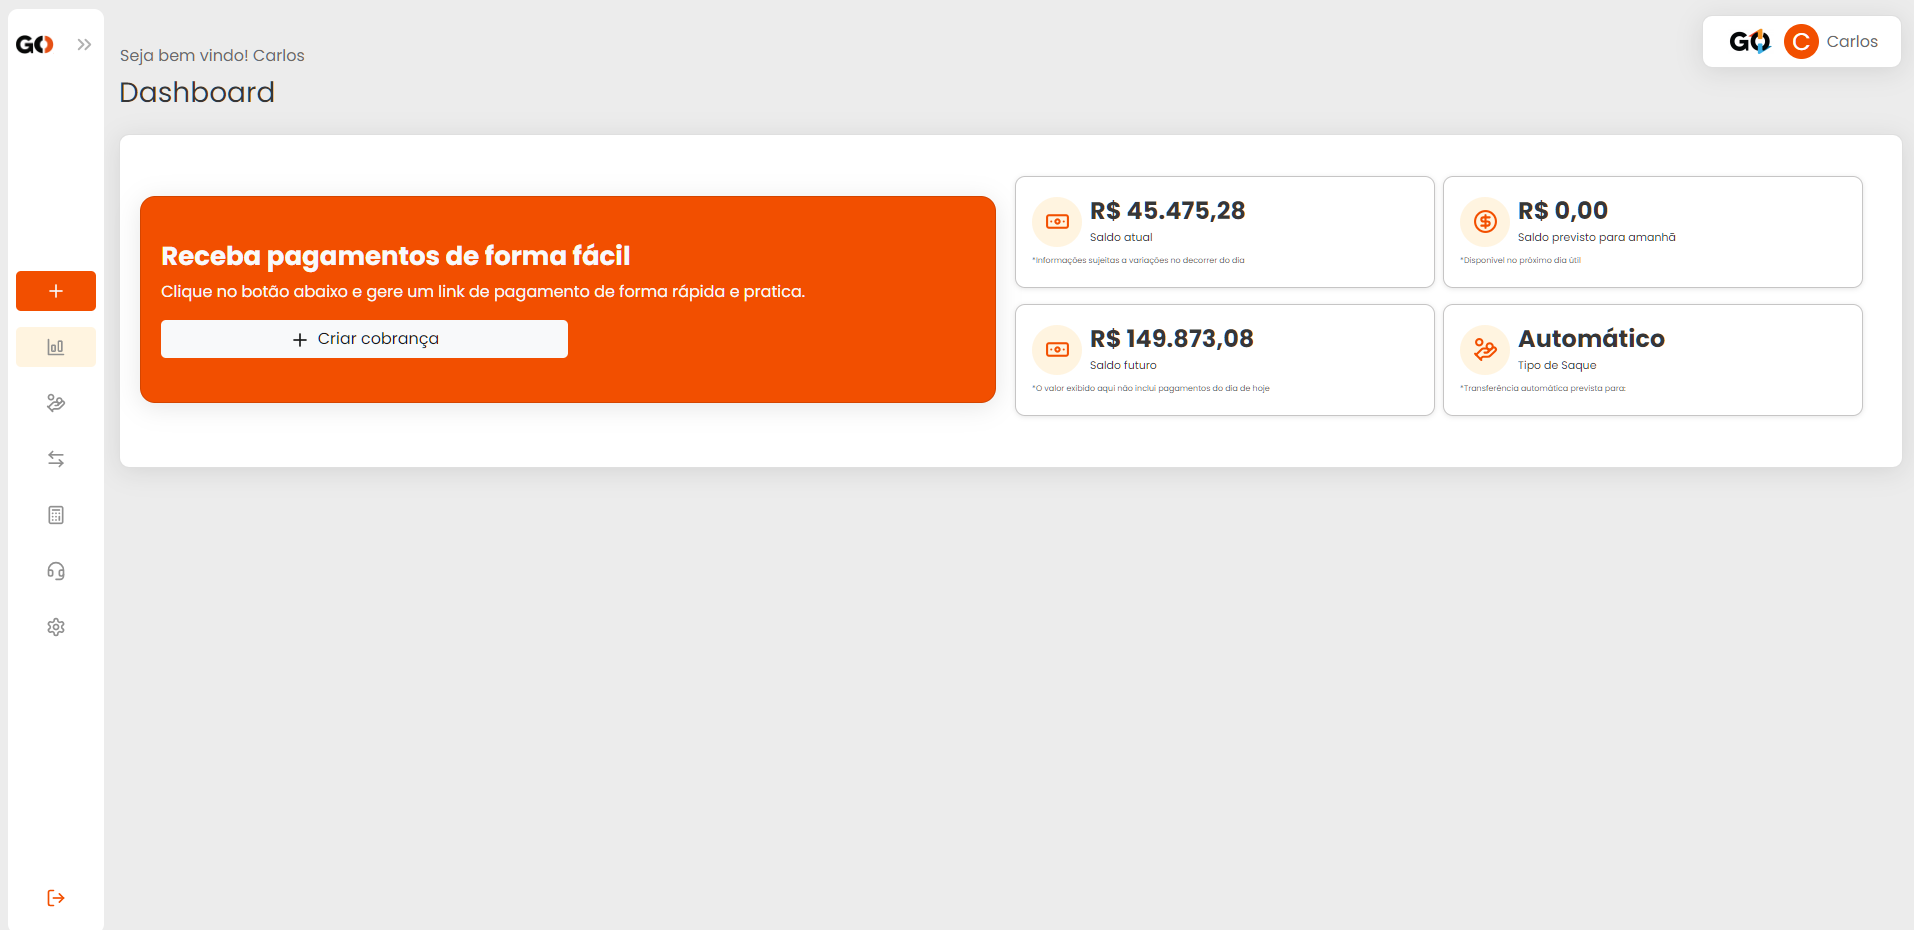
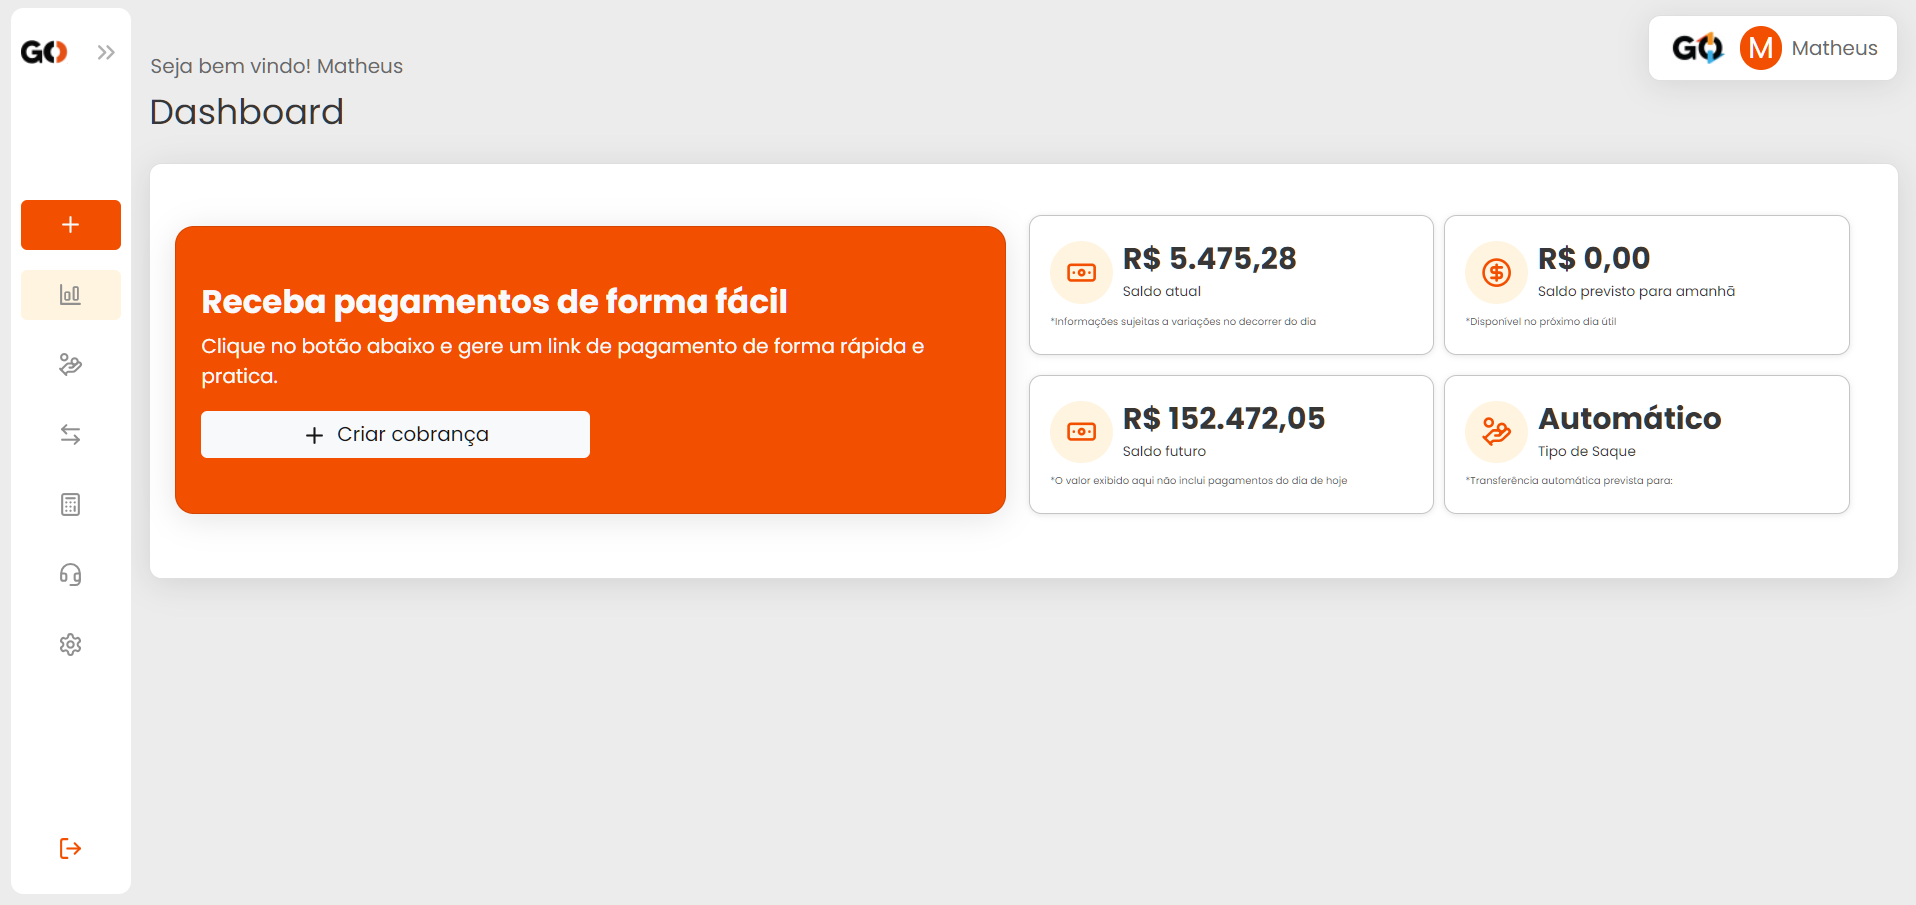
update texto Menu navegação (Reunião 2)

Changed region(s): [[0.0, 0.0309, 1.0, 0.5878], [0.8631, 0.0309, 1.0, 0.0928], [0.0308, 0.6188, 0.0617, 0.6497]]

diff --git a/NAVIGATION/README.md b/NAVIGATION/README.md
@@ -8,8 +8,12 @@
 
 <p>Porém com suas informações de saldo!</p>
 
-<p>Agora, voltando nossa atenção para o canto superior direito da tela, poderemos visualizar um campo com nosso nome incluso. Clicando sobre este campo, uma janelinha irá aparecer logo abaixo do nosso nome com algumas informações, ou nome da empresa e o CNPJ da mesma, ou nome da pessoa e CPF (Essas informações dependem do plano que você fechou conosco) e logo abaixo a opção de poder sair da conta.<br>
-Podemos ver esses detalhes na imagem:</p>
+<p>Agora, voltando nossa atenção para o canto superior direito da tela, poderemos visualizar um campo com seu nome incluso. Clicando sobre este campo, uma janelinha irá aparecer logo abaixo do seu nome com algumas informações:
+
+- Nome da empresa e o CNPJ da mesma, isso para planos de conta do tipo Pessoa Jurídica;
+- Nome da pessoa e CPF, este sendo para Pessoas Físicas; 
+- A últimaa opção é a de sair/logout da conta.<br>
+Você pode observar esses detalhes na imagem abaixo:</p>
 
 ![tela_inicial_campo_nome](../assets/prints/tela_inicial_campo_nome.png)
 
